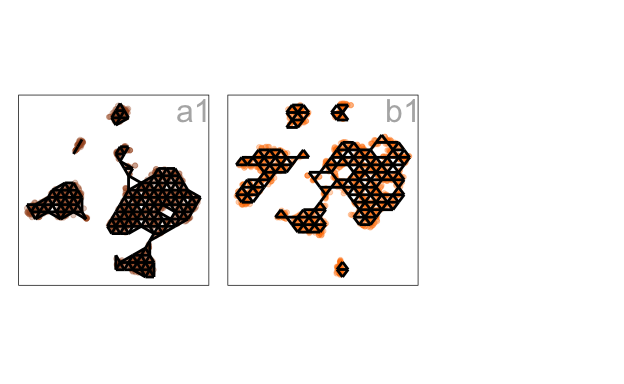
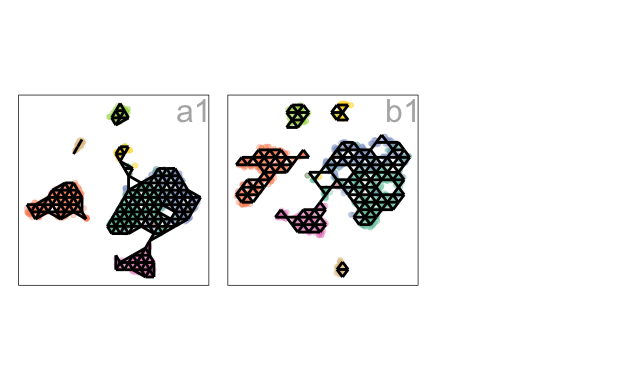
Added colors according to the clusters

diff --git a/paper-quollr.html b/paper-quollr.html
@@ -168,7 +168,7 @@ code span.wa { color: #5e5e5e; font-style: italic; } /* Warning */
   <!--/radix_placeholder_rmarkdown_metadata-->
   
   <script type="text/json" id="radix-resource-manifest">
-  {"type":"character","attributes":{},"value":["data/annotations_FACS.csv","data/facs_Muscle_seurat_tiss.Robj","data/FACS.zip","data/FACS/Limb_Muscle-counts.csv","data/flavia_dataset.csv","data/limb_muscles/error_limb_muscles_pacmap_n-neighbors_10_init_random_MN-ratio_0.5_FP-ratio_2.rds","data/limb_muscles/error_limb_muscles_phate_knn_5.rds","data/limb_muscles/error_limb_muscles_trimap_n-inliers_12_n-outliers_4_n-random_3.rds","data/limb_muscles/error_limb_muscles_trimap_n-inliers_30_n-outliers_4_n-random_3.rds","data/limb_muscles/error_limb_muscles_trimap_n-inliers_5_n-outliers_4_n-random_3.rds","data/limb_muscles/error_limb_muscles_tsne_perplexity_15.rds","data/limb_muscles/error_limb_muscles_tsne_perplexity_30.rds","data/limb_muscles/error_limb_muscles_umap_n-neigbors_15_min-dist_0.1.rds","data/limb_muscles/error_limb_muscles_umap_n-neigbors_30_min-dist_0.1.rds","data/limb_muscles/facs_limb_muscles_pacmap_n-neighbors_10_init_random_MN-ratio_0.5_FP-ratio_2.rds","data/limb_muscles/facs_limb_muscles_pcs_10.rds","data/limb_muscles/facs_limb_muscles_phate_knn_5.rds","data/limb_muscles/facs_limb_muscles_trimap_n-inliers_12_n-outliers_4_n-random_3.rds","data/limb_muscles/facs_limb_muscles_trimap_n-inliers_30_n-outliers_4_n-random_3.rds","data/limb_muscles/facs_limb_muscles_trimap_n-inliers_5_n-outliers_4_n-random_3.rds","data/limb_muscles/facs_limb_muscles_tsne_perplexity_15.rds","data/limb_muscles/facs_limb_muscles_tsne_perplexity_30.rds","data/limb_muscles/facs_limb_muscles_umap_n-neigbors_15_min-dist_0.1.rds","data/limb_muscles/facs_limb_muscles_umap_n-neigbors_30_min-dist_0.1.rds","data/medlea_dataset.csv","data/metadata_FACS.csv","data/star.rds","data/star.txt","figures/buffer_img.png","figures/hex_coordinates_img.png","figures/hex_size_img.png","figures/spacing_img.png","figures/workflow_all_centroids.png","figures/workflow_all_coordinates.png","initial_paper","motivation-letter/motivation-letter.md","paper_old_1.qmd","paper_old_2.qmd","paper-quollr_files/anchor-4.2.2/anchor.min.js","paper-quollr_files/bowser-1.9.3/bowser.min.js","paper-quollr_files/distill-2.2.21/template.v2.js","paper-quollr_files/figure-html5/fig-limb-mse-1.png","paper-quollr_files/figure-html5/fig-nldervis-1.png","paper-quollr_files/figure-html5/hex-bin-1.png","paper-quollr_files/figure-html5/mesh-diffplots-1.png","paper-quollr_files/figure-html5/mesh-plots-1.png","paper-quollr_files/figure-html5/tsne-clust-1.png","paper-quollr_files/figure-html5/unnamed-chunk-10-1.png","paper-quollr_files/figure-html5/unnamed-chunk-11-1.png","paper-quollr_files/figure-html5/unnamed-chunk-12-1.png","paper-quollr_files/figure-html5/unnamed-chunk-13-1.png","paper-quollr_files/figure-html5/unnamed-chunk-14-1.png","paper-quollr_files/figure-html5/unnamed-chunk-15-1.png","paper-quollr_files/figure-html5/unnamed-chunk-16-1.png","paper-quollr_files/figure-html5/unnamed-chunk-17-1.png","paper-quollr_files/figure-html5/unnamed-chunk-18-1.png","paper-quollr_files/figure-html5/unnamed-chunk-19-1.png","paper-quollr_files/figure-html5/unnamed-chunk-2-1.png","paper-quollr_files/figure-html5/unnamed-chunk-20-1.png","paper-quollr_files/figure-html5/unnamed-chunk-21-1.png","paper-quollr_files/figure-html5/unnamed-chunk-22-1.png","paper-quollr_files/figure-html5/unnamed-chunk-23-1.png","paper-quollr_files/figure-html5/unnamed-chunk-24-1.png","paper-quollr_files/figure-html5/unnamed-chunk-25-1.png","paper-quollr_files/figure-html5/unnamed-chunk-26-1.png","paper-quollr_files/figure-html5/unnamed-chunk-27-1.png","paper-quollr_files/figure-html5/unnamed-chunk-28-1.png","paper-quollr_files/figure-html5/unnamed-chunk-29-1.png","paper-quollr_files/figure-html5/unnamed-chunk-3-1.png","paper-quollr_files/figure-html5/unnamed-chunk-30-1.png","paper-quollr_files/figure-html5/unnamed-chunk-31-1.png","paper-quollr_files/figure-html5/unnamed-chunk-32-1.png","paper-quollr_files/figure-html5/unnamed-chunk-33-1.png","paper-quollr_files/figure-html5/unnamed-chunk-34-1.png","paper-quollr_files/figure-html5/unnamed-chunk-35-1.png","paper-quollr_files/figure-html5/unnamed-chunk-4-1.png","paper-quollr_files/figure-html5/unnamed-chunk-5-1.png","paper-quollr_files/figure-html5/unnamed-chunk-6-1.png","paper-quollr_files/figure-html5/unnamed-chunk-7-1.png","paper-quollr_files/figure-html5/unnamed-chunk-8-1.png","paper-quollr_files/figure-html5/unnamed-chunk-9-1.png","paper-quollr_files/header-attrs-2.26/header-attrs.js","paper-quollr_files/header-attrs-2.27/header-attrs.js","paper-quollr_files/header-attrs-2.29/header-attrs.js","paper-quollr_files/htmltools-fill-0.5.8.1/fill.css","paper-quollr_files/htmlwidgets-1.6.4/htmlwidgets.js","paper-quollr_files/jquery-3.6.0/jquery-3.6.0.js","paper-quollr_files/jquery-3.6.0/jquery-3.6.0.min.js","paper-quollr_files/jquery-3.6.0/jquery-3.6.0.min.map","paper-quollr_files/langevitour-0.7/langevitour-pack.js","paper-quollr_files/langevitour-binding-0.7/langevitour.js","paper-quollr_files/popper-2.6.0/popper.min.js","paper-quollr_files/tippy-6.2.7/tippy-bundle.umd.min.js","paper-quollr_files/tippy-6.2.7/tippy-light-border.css","paper-quollr_files/tippy-6.2.7/tippy.css","paper-quollr_files/tippy-6.2.7/tippy.umd.min.js","paper-quollr_files/webcomponents-2.0.0/webcomponents.js","paper-quollr.log","paper-quollr.tex","RJournal.sty","RJreferences.bib","RJwrapper.log","RJwrapper.tex","Rlogo-5.png","scripts/2D.R","scripts/additional_functions.R","scripts/application.R","scripts/FACs/01_data_preprocessing.R","scripts/FACs/02_gen_embeddings.R","scripts/FACs/03_gen_mse_for_diff_methods.R","scripts/function_scripts/Fit_PacMAP_code.py","scripts/function_scripts/Fit_TriMAP_code.py","scripts/function_scripts/functions_tri_hex_PaCMAP_without_pc.R","scripts/function_scripts/functions_tri_hex_PaCMAP.R","scripts/function_scripts/functions_tri_hex_phate_without_pc.R","scripts/function_scripts/functions_tri_hex_phate.R","scripts/function_scripts/functions_tri_hex_TriMAP_without_pc.R","scripts/function_scripts/functions_tri_hex_TriMAP.R","scripts/function_scripts/functions_tri_hex_tsne_without_pc.R","scripts/function_scripts/functions_tri_hex_tsne.R","scripts/function_scripts/functions_tri_hex_umap_with_pc.R","scripts/function_scripts/functions_tri_hex_umap_without_pc_rds.R","scripts/function_scripts/functions_tri_hex_umap_without_pc.R","scripts/gen_hex_centroid_from_scratch.R","scripts/gen_shift_the_origin_from_scratch.R","scripts/quollr_code_old.R","scripts/quollr_code_v2.R","style.css"]}
+  {"type":"character","attributes":{},"value":["data/facs_Muscle_seurat_tiss.Robj","data/FACS.zip","data/flavia_dataset.csv","data/limb_muscles/annotations_FACS.csv","data/limb_muscles/error_limb_muscles_pacmap_n-neighbors_10_init_random_MN-ratio_0.5_FP-ratio_2.rds","data/limb_muscles/error_limb_muscles_phate_knn_5.rds","data/limb_muscles/error_limb_muscles_trimap_n-inliers_12_n-outliers_4_n-random_3.rds","data/limb_muscles/error_limb_muscles_trimap_n-inliers_30_n-outliers_4_n-random_3.rds","data/limb_muscles/error_limb_muscles_trimap_n-inliers_5_n-outliers_4_n-random_3.rds","data/limb_muscles/error_limb_muscles_tsne_perplexity_15.rds","data/limb_muscles/error_limb_muscles_tsne_perplexity_30.rds","data/limb_muscles/error_limb_muscles_umap_n-neigbors_15_min-dist_0.1.rds","data/limb_muscles/error_limb_muscles_umap_n-neigbors_30_min-dist_0.1.rds","data/limb_muscles/facs_limb_dist_df_with clusters.rds","data/limb_muscles/facs_limb_dist_df.rds","data/limb_muscles/facs_limb_muscles_cluster_df.rds","data/limb_muscles/facs_limb_muscles_pacmap_n-neighbors_10_init_random_MN-ratio_0.5_FP-ratio_2.rds","data/limb_muscles/facs_limb_muscles_pcs_10.rds","data/limb_muscles/facs_limb_muscles_phate_knn_5.rds","data/limb_muscles/facs_limb_muscles_trimap_n-inliers_12_n-outliers_4_n-random_3.rds","data/limb_muscles/facs_limb_muscles_trimap_n-inliers_30_n-outliers_4_n-random_3.rds","data/limb_muscles/facs_limb_muscles_trimap_n-inliers_5_n-outliers_4_n-random_3.rds","data/limb_muscles/facs_limb_muscles_tsne_perplexity_15.rds","data/limb_muscles/facs_limb_muscles_tsne_perplexity_30.rds","data/limb_muscles/facs_limb_muscles_umap_n-neigbors_15_min-dist_0.1.rds","data/limb_muscles/facs_limb_muscles_umap_n-neigbors_30_min-dist_0.1.rds","data/limb_muscles/Limb_Muscle-counts.csv","data/limb_muscles/metadata_FACS.csv","data/medlea_dataset.csv","data/star.rds","data/star.txt","figures/buffer_img.png","figures/hex_coordinates_img.png","figures/hex_size_img.png","figures/spacing_img.png","figures/workflow_all_centroids.png","figures/workflow_all_coordinates.png","initial_paper","motivation-letter/motivation-letter.md","paper_old_1.qmd","paper_old_2.qmd","paper-quollr_files/anchor-4.2.2/anchor.min.js","paper-quollr_files/bowser-1.9.3/bowser.min.js","paper-quollr_files/distill-2.2.21/template.v2.js","paper-quollr_files/figure-html5/fig-limb-mse-1.png","paper-quollr_files/figure-html5/fig-nldervis-1.png","paper-quollr_files/figure-html5/hex-bin-1.png","paper-quollr_files/figure-html5/mesh-diffplots-1.png","paper-quollr_files/figure-html5/mesh-plots-1.png","paper-quollr_files/figure-html5/tsne-clust-1.png","paper-quollr_files/figure-html5/unnamed-chunk-10-1.png","paper-quollr_files/figure-html5/unnamed-chunk-11-1.png","paper-quollr_files/figure-html5/unnamed-chunk-12-1.png","paper-quollr_files/figure-html5/unnamed-chunk-13-1.png","paper-quollr_files/figure-html5/unnamed-chunk-14-1.png","paper-quollr_files/figure-html5/unnamed-chunk-15-1.png","paper-quollr_files/figure-html5/unnamed-chunk-16-1.png","paper-quollr_files/figure-html5/unnamed-chunk-17-1.png","paper-quollr_files/figure-html5/unnamed-chunk-18-1.png","paper-quollr_files/figure-html5/unnamed-chunk-19-1.png","paper-quollr_files/figure-html5/unnamed-chunk-2-1.png","paper-quollr_files/figure-html5/unnamed-chunk-20-1.png","paper-quollr_files/figure-html5/unnamed-chunk-21-1.png","paper-quollr_files/figure-html5/unnamed-chunk-22-1.png","paper-quollr_files/figure-html5/unnamed-chunk-23-1.png","paper-quollr_files/figure-html5/unnamed-chunk-24-1.png","paper-quollr_files/figure-html5/unnamed-chunk-25-1.png","paper-quollr_files/figure-html5/unnamed-chunk-26-1.png","paper-quollr_files/figure-html5/unnamed-chunk-27-1.png","paper-quollr_files/figure-html5/unnamed-chunk-28-1.png","paper-quollr_files/figure-html5/unnamed-chunk-29-1.png","paper-quollr_files/figure-html5/unnamed-chunk-3-1.png","paper-quollr_files/figure-html5/unnamed-chunk-30-1.png","paper-quollr_files/figure-html5/unnamed-chunk-31-1.png","paper-quollr_files/figure-html5/unnamed-chunk-32-1.png","paper-quollr_files/figure-html5/unnamed-chunk-33-1.png","paper-quollr_files/figure-html5/unnamed-chunk-34-1.png","paper-quollr_files/figure-html5/unnamed-chunk-35-1.png","paper-quollr_files/figure-html5/unnamed-chunk-4-1.png","paper-quollr_files/figure-html5/unnamed-chunk-5-1.png","paper-quollr_files/figure-html5/unnamed-chunk-6-1.png","paper-quollr_files/figure-html5/unnamed-chunk-7-1.png","paper-quollr_files/figure-html5/unnamed-chunk-8-1.png","paper-quollr_files/figure-html5/unnamed-chunk-9-1.png","paper-quollr_files/header-attrs-2.26/header-attrs.js","paper-quollr_files/header-attrs-2.27/header-attrs.js","paper-quollr_files/header-attrs-2.29/header-attrs.js","paper-quollr_files/htmltools-fill-0.5.8.1/fill.css","paper-quollr_files/htmlwidgets-1.6.4/htmlwidgets.js","paper-quollr_files/jquery-3.6.0/jquery-3.6.0.js","paper-quollr_files/jquery-3.6.0/jquery-3.6.0.min.js","paper-quollr_files/jquery-3.6.0/jquery-3.6.0.min.map","paper-quollr_files/langevitour-0.7/langevitour-pack.js","paper-quollr_files/langevitour-binding-0.7/langevitour.js","paper-quollr_files/popper-2.6.0/popper.min.js","paper-quollr_files/tippy-6.2.7/tippy-bundle.umd.min.js","paper-quollr_files/tippy-6.2.7/tippy-light-border.css","paper-quollr_files/tippy-6.2.7/tippy.css","paper-quollr_files/tippy-6.2.7/tippy.umd.min.js","paper-quollr_files/webcomponents-2.0.0/webcomponents.js","paper-quollr.log","paper-quollr.tex","RJournal.sty","RJreferences.bib","RJwrapper.log","RJwrapper.tex","Rlogo-5.png","scripts/additional_functions.R","scripts/application.R","scripts/FACs/01_data_preprocessing.R","scripts/FACs/02_gen_embeddings.R","scripts/FACs/03_gen_mse_for_diff_methods.R","scripts/FACs/04_compute_distances.R","scripts/FACs/05_comb_clust_distances.R","scripts/FACs/06_comp_distances_clust_wise.R","style.css"]}
   </script>
   <!--radix_placeholder_navigation_in_header-->
   <!--/radix_placeholder_navigation_in_header-->
